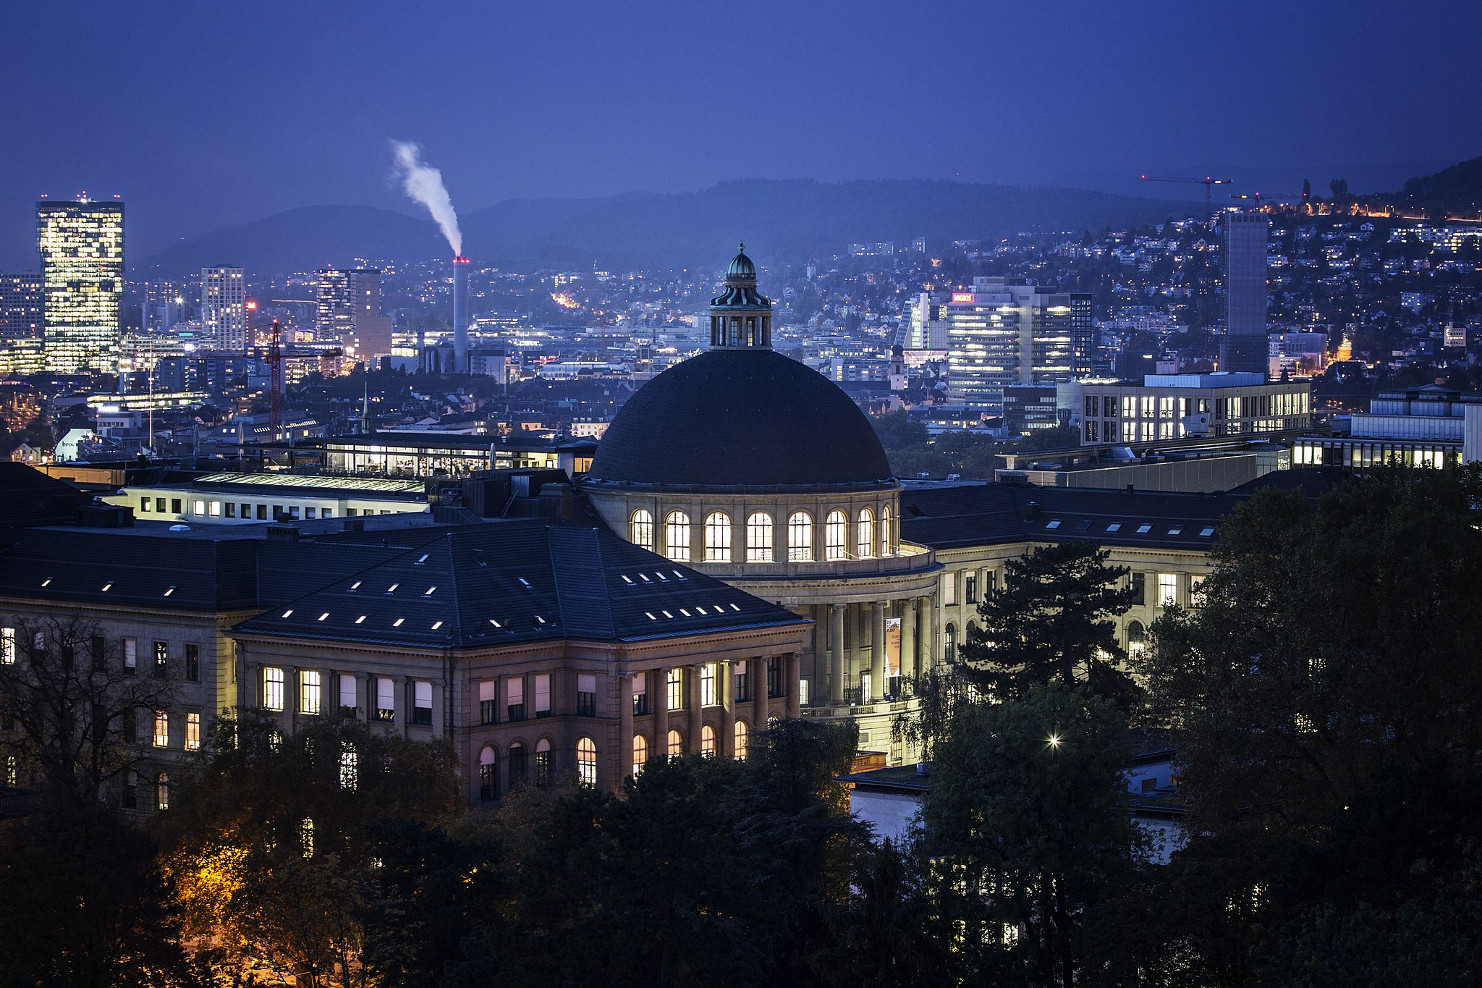
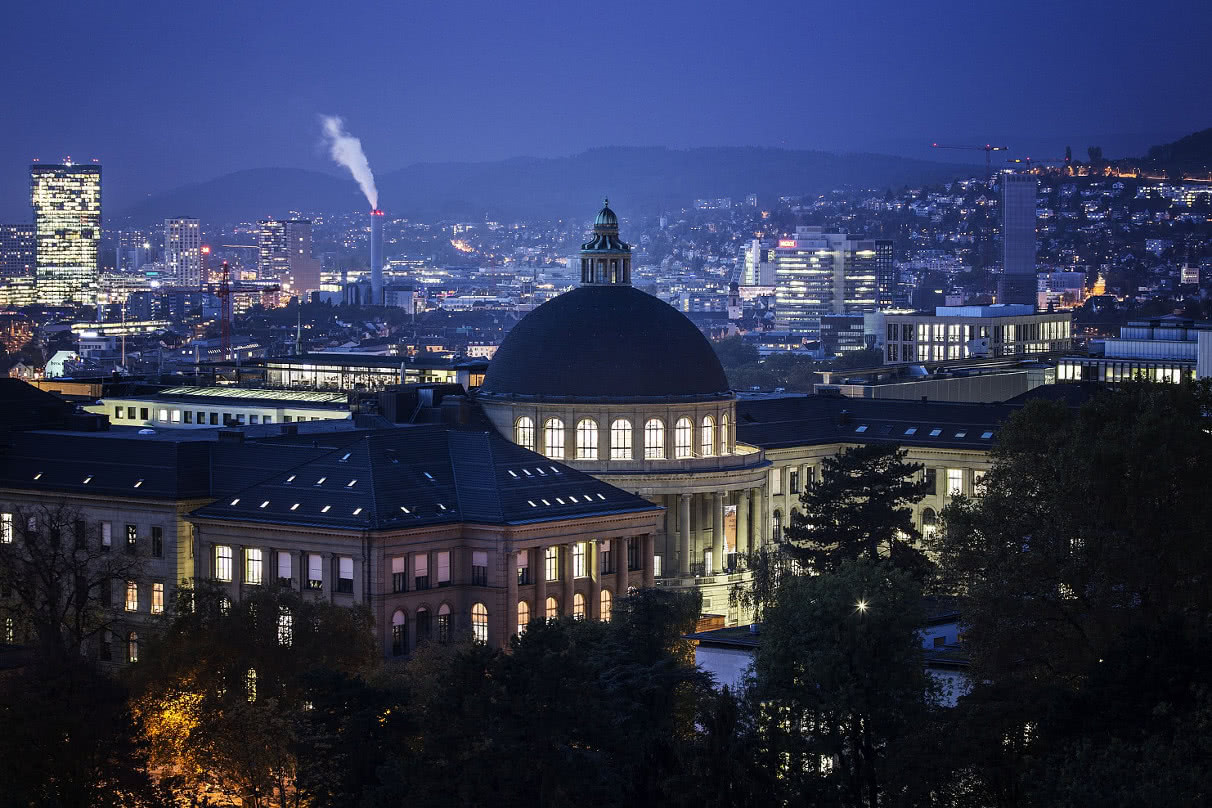
Reduce size for Zurich images
Better compression for panorama shot (using Google Guezli), and rescale
the venue pictures, as they are shown in two columns.

diff --git a/location.md b/location.md
@@ -63,8 +63,8 @@ A 24 hour ticket for within the city of Zurich (zone 110) costs CHF 8.80, a sing
 
 <section class="img-grid">
   <div>
-    <img src="/assets/zurich/eth-mainbuilding.jpg" alt="Main building of ETH by night">
-    <img src="/assets/zurich/venue-inside.jpg" alt="Foyer of the NO building">
+    <img src="/assets/zurich/eth-mainbuilding.jpg" alt="Main building of ETH by night" style="max-height: 404px;">
+    <img src="/assets/zurich/venue-inside.jpg" alt="Foyer of the NO building" style="max-height: 404px;">
   </div>
 </section>
 
